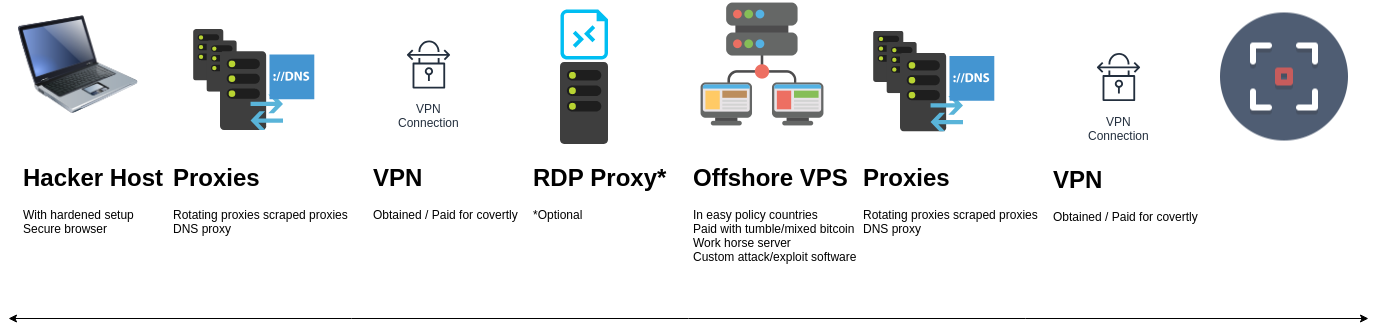
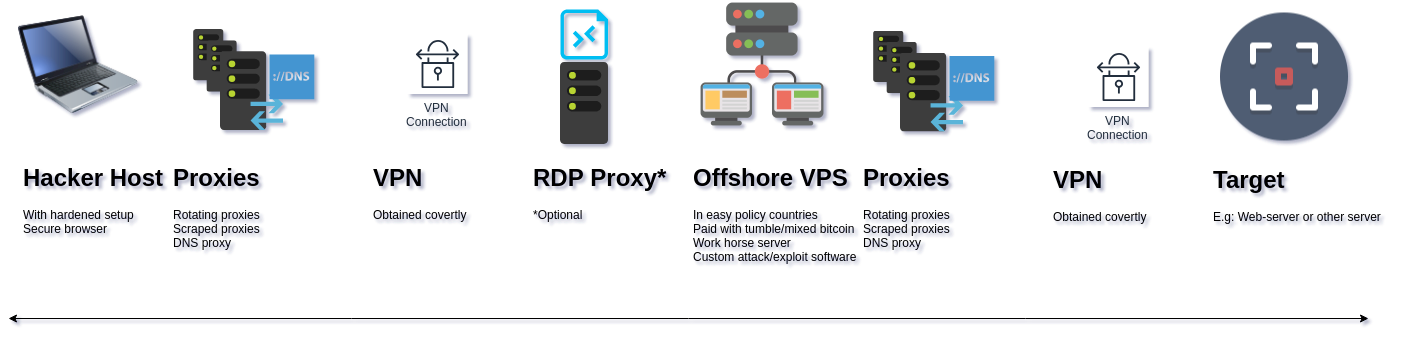
Daily build

diff --git a/pentestinfra.md b/pentestinfra.md
@@ -7,7 +7,7 @@ _Disclaimer & Caveat Lector: This article is for educational purposes only. The 
 + By Shiva @ CPH:SEC : https://cph-sec.github.io/
 + Quality Control by xxx @ xxxx
 
-### **Table of Contents**
+## **Table of Contents**
 
 1. #### [Introduction](#Introduction)
 2. #### [Attacker Localhost Setup](#localhost)
@@ -19,7 +19,7 @@ _Disclaimer & Caveat Lector: This article is for educational purposes only. The 
   6. #### [Virtual Private Network](#vpn)
 3. #### [Conclusion](#Conclusion)
 
-### <a id="Introduction"></a>Introduction
+## <a id="Introduction"></a>Introduction
 
 This is the first part of a series on how to build a covert pentesting infrastructure. Part 1 will focus on setting up the attackers localhost, that will then be able to connect to the attack VPS cloud server covertly using a mix of socks5 -, DNS -proxies and VPN.
 The knowledge in these articles comes in handy for red teaming or engangements that require anonymity. As a reader you will learn state of the art modern method thats is not costly to build a pentesting infrastructure. The article series is as suchs:
@@ -36,31 +36,34 @@ See the below illustration to get an overview of this project. Part 1 covers "Ha
 The last chapter "Surf" includes a large reference of links, should the reader be interested.
 
 
-### <a id="localhost"></a>Attacker Localhost Setup
+## <a id="localhost"></a>Attacker Localhost Setup
 
 The attackers localhost is the machine that must never be compromised or traced as it will reveal the identity of the operating agent. One could argue that part 1 is therefore the most important of the 3 parts.
 
-#### <a id="checklist"></a>Check List
+### <a id="checklist"></a>Check List
 
 A short primer checklist before the actual deepdive into tech anonymity:
 
+- Change MAC address of network cards using "macchanger"
+- Close all apps and background services connected to the web
+- All tracking in browser and OS are turned off and blocked (hardened)³³ ³⁴
+- Bitcoins are properly mixed and using a third-party wallet
 - Connect to (multiple) scraped anon socks5 proxy and secured DNS proxy
 - Connect to a logless VPN that was obtained covertly
 - Connect to the internet through Tor or other browser that does not allow fingerprinting
 - DNS settings are configured to use a logless DNS
 - Logged out of all online accounts
-- Closed all apps and background services connected to the web
-- All tracking in my browser and OS are turned off and blocked
 - Emails are sent using burner accounts
 - New accounts registered and logged in with burner emails
 - Search with DuckDuckGo or StartPage
-- Bitcoins are properly mixed and using a third-party wallet
-- Use foreign hardware, if at all possible. Preferly other than your neighbours wifi.
+- Use foreign hardware, if at all possible. Preferly other than your neighbours WiFi.*
+
+*Note that WiFi hotspots in e.g. cafés often user more tracking than the average 4G data connection.
 
 
-#### <a id="scraping"></a>Scraping Proxies
+### <a id="scraping"></a>Scraping Proxies
 
-In order to setup a proxy server (see Redsocks chapter) with random proxies first some must be fetched. This is done by using the tool "fetch-some-proxies"¹. Simply run ./fetch.sh to fetch proxies which will execute the following commands:
+In order to setup a proxy server (see Redsocks chapter) with random proxies first some proxies must be fetched. This is done by using the tool "fetch-some-proxies"¹. Simply run ./fetch.sh to fetch proxies which will execute the following commands:
 
 ```
 sudo python fetch-some-proxies/fetch.py | tee proxyscrape.tmp
@@ -75,9 +78,9 @@ Only socks5 proxies of the elite type is of interest as several protocols must b
 
 As unwanted proxies are now filtered away a proxy with short latency is chosen from "proxyscrape.lst", e.g. socks5://178.62.59.71:4076 . Now that the proxy list is populated the next chapter will show how to use a scraped proxy with redsocks.
 
-#### <a id="redsocks"></a>Redsocks Install & Setup
+### <a id="redsocks"></a>Redsocks Install & Setup
 
-"Redsocks is the tool that allows you to proxify(redirect) network traffic through a SOCKS4, SOCKS5 or HTTPs proxy server. It works on the lowest level, the kernel level (iptables). The other possible way is to use application level proxy, when the proxy client is implemented in the same language as an application is written in. Redsocks operates on the lowest system level, that’s why all running application don’t even have an idea that network traffic is sent through a proxy server, as a result it is called a transparent proxy redirector." ¹⁴
+"Redsocks is the tool that allows you to proxify (redirect) network traffic through a SOCKS4, SOCKS5 or HTTPs proxy server. It works on the lowest level, the kernel level (iptables). The other possible way is to use application level proxy, when the proxy client is implemented in the same language as an application is written in. Redsocks operates on the lowest system level, that’s why all running application don’t even have an idea that network traffic is sent through a proxy server, as a result it is called a transparent proxy redirector." ¹⁴
 
 ![image](pics/redsocks-diagram.png)
 
@@ -126,7 +129,7 @@ dnstc {
 
 ```
 
-This concludes the installation and setup of redsocks. However, to route all traffic trough redsocks and the scraped proxy IPtables are required. For installing IPtables and setting up with redsocks refer to "debian manpages"¹⁶ and stackexchange¹⁵. In any case, using the script included with this project both redsocks and IPtables can be started using ./startREDsocks.sh:
+This concludes the installation and setup of redsocks. However, to route all traffic trough redsocks and the scraped proxy iptables are required. For installing iptables and setting up with redsocks refer to "debian manpages"¹⁶ and stackexchange¹⁵. In any case, using the script included with this project both redsocks and iptables can be started using "./startREDsocks.sh":
 
 ```
 #!/usr/bin/env bash
@@ -138,7 +141,7 @@ sudo ./resetiproute.sh
 sudo ./myip.sh
 ```
 
-While DNScrypt and secure DNS in general will be covered in the next chapter "Secure DNS", ./iproute.sh routes traffic through redsocks proxy with iptables and ./resetiproute.sh stops the routing through redsocks. A closer look:
+While DNScrypt and secure DNS in general will be covered in the next chapter "Secure DNS", ./iproute.sh routes traffic through redsocks proxy with iptables and "./resetiproute.sh" stops the routing through redsocks. A closer look:
 
 ```
 #!/usr/bin/env bash
@@ -168,7 +171,7 @@ sudo iptables -t nat -A PREROUTING -p tcp --dport 21 -j REDSOCKS
 sudo iptables -t nat -A PREROUTING -p tcp --dport 22 -j REDSOCKS
 ```
 
-Note that depending on what ports should be forwarded it might be necessary add or change dport lines. As for resetiproute.sh it works like so:
+Note that depending on what ports should be forwarded it might be necessary add or change dport lines. As for "resetiproute.sh" it works like so:
 
 ```
 #!/usr/bin/env bash
@@ -182,9 +185,9 @@ sudo iptables -t nat -X
 sudo iptables -t nat -Z
 killall redsocks
 ```
-For more information on IPtables please refer to "How to force all Linux apps to use SOCKS proxy" ¹².
+For more information on iptables please refer to "How to force all Linux apps to use SOCKS proxy" ¹².
 
-#### <a id="multiple"></a>Redsocks with Multiple Proxies
+### <a id="multiple"></a>Redsocks with Multiple Proxies
 
 Adding additional proxies to redsocks doesnt necessarily lead to higher anonymity or security, as the proxies are not chained and still DNS leak, but will help balacing the load. As before "/etc/redsocks.conf" file must be edited, this time with additional chapters, like so:
 
@@ -217,13 +220,13 @@ Now enjoy seemless proxy rotation.
 The purpose of this project is to be covert and despite the use of socks5 proxy there is still DNS leak, although IP is now spoofed. To test different scenarios "dnsleaktest.com" ⁹ is utilized and although origin IP is spoofed, showing IP of the proxy, a "dnsleaktest.com" extended test still show original IP. To avoid this DNS must be covert and so this is covered in the next chapter "Secure DNS".
 
 
-#### <a id="securedns"></a>Secure DNS
+### <a id="securedns"></a>Secure DNS
 
-Proxies and IP-spoofing is pointless without a secure DNS as DNS leak will reveal the IP of origin. (Good) VPNs setup there own DNS for same and could VPNs be thrusted solely scraped proxy and secure DNS would not be required. As this is not the case read on.
+Proxies and IP-spoofing is pointless without a secure DNS as DNS leak will reveal the origin IP. (Good) VPNs setup there own DNS for same and could VPNs be thrusted solely scraped proxy and secure DNS would not be required. As this is not the case read on.
 
-**DNS over Proxy**
+#### DNS over Proxy
 
-There are several services that delivers DNS over proxy. For more information on DNS via proxy please refer to the surf section "Anon DNS Servers" ²⁴ ²⁵. Setting up DNS proxy is quite straightforwared, in the following example https://dns.watch ²⁴ DNS servers are applied. First update the resolver configuration:
+There are several services that delivers DNS over proxy. For more information on DNS via proxy please refer to the surf section "Anon DNS Servers" ²⁴ ²⁵. Setting up DNS proxy is quite straightforward, in the following example https://dns.watch ²⁴ DNS servers are applied. First update the resolver configuration:
 
 ```
 sudo nano /etc/resolvconf/resolv.conf.d/base
@@ -240,7 +243,7 @@ Then set DNS for both IPv4 and IPv6 using the NetworkManager²³:
 3. Then select either WiFi or Ethernet, or whatever you are using, and click on edit. You'll get this:
 > ![image](pics/networkcon2.png)
 
-4 .Select ipv4 in tabs
+4. Select ipv4 in tabs
 5. Select addresses only in method
 6. Enter your DNS name below, and save it (dont use 8.8.8.8, its Google transparent DNS, but e.g. 84.200.69.80)
 7. Repeat 4-6 for IPv6 also for all interfaces
@@ -254,9 +257,9 @@ Testing with "dnsleaktest.com" result will now be as intended:
 Next chapter shows how to use DNSCrypt to add an extra level of DNS anonymity.
 
 
-**DNSCrypt-Proxy Install & Setup**
+#### DNSCrypt-Proxy Install & Setup
 
-As DNS leak was fixed by the configuration in the last chapter, some might still want to implemented DNSCrypt as an additional level of protection, although its not strictly needed. First install DNSCrypt proxy like so:
+Although DNS leak was fixed by the configuration in the last chapter, some might still want to implemented DNSCrypt as an additional level of protection, although its not strictly needed. First install DNSCrypt proxy like so:
 
 ```
 sudo apt purge dnscrypt-proxy
@@ -280,7 +283,7 @@ plugins=ifupdown,keyfile
 managed=false
 
 [device]
-wifi.scan-rand-mac-address=no
+WiFi.scan-rand-mac-address=no
 ```
 
 And finally run "./restartDNScrypt.sh", which does the following:
@@ -295,13 +298,17 @@ sudo systemctl restart dnscrypt-proxy
 In the next chapter another level of anonymity is presented as the use of VPN is discussed.
 
 
-#### <a id="vpn"></a>Virtual Private Network
+### <a id="vpn"></a>Virtual Private Network
+
+In earlier chapters it has be shown how to spoof both IP address and avoid DNS leak. However, so far traffic has not been encrypted and so could be wiretapped. By using a VPN this is avoided and so it is important to use good VPN to make sure encryption is strong enough. Furthermore, the effectiveness of a VPN is much different if VPN is used before or after proxy servers. What is even more important is to obtain VPN service covertly as the us of a credit card VPN, tha also keep logs(!), defeats most of efforts to be anonymous and acting covertly on the net. Some points that need to be considered choosing a VPN:
+
++ Can be obtained covertly e.g. with crypto payment
++ Logless
++
 
 
 
-
-
-##### <a id="bitcoin"></a>Bitcoin Mixing / Tumbling
+#### <a id="bitcoin"></a>Bitcoin Mixing / Tumbling
 
 
 
@@ -371,3 +378,15 @@ _Ideas_
 #### SSH Routing with a Service
 + ³¹ Expose local servers to the internet: https://serveo.net/
 + ³² Public URLs for exposing your local web server: https://ngrok.com/
+
+#### Browser & OS Hardening
++ ³³ Firefox privacy, security and anti-fingerprinting: https://github.com/ghacksuserjs/ghacks-user.js
++ ³⁴ The Practical Linux Hardening Guide: https://github.com/trimstray/the-practical-linux-hardening-guide
++ ³⁵ https://www.hackeroyale.com/how-to-stay-anonymous/
+
+### VPN
++ How To Stay Anonymous While Hacking: https://www.tech21century.com/expressvpn-vs-nordvpn-comparison/
+
+#### Bitcoin
++ 6 Ways To Guarantee Anonymity When Making Bitcoin Transactions: https://coinsutra.com/anonymous-bitcoin-transactions/
++
